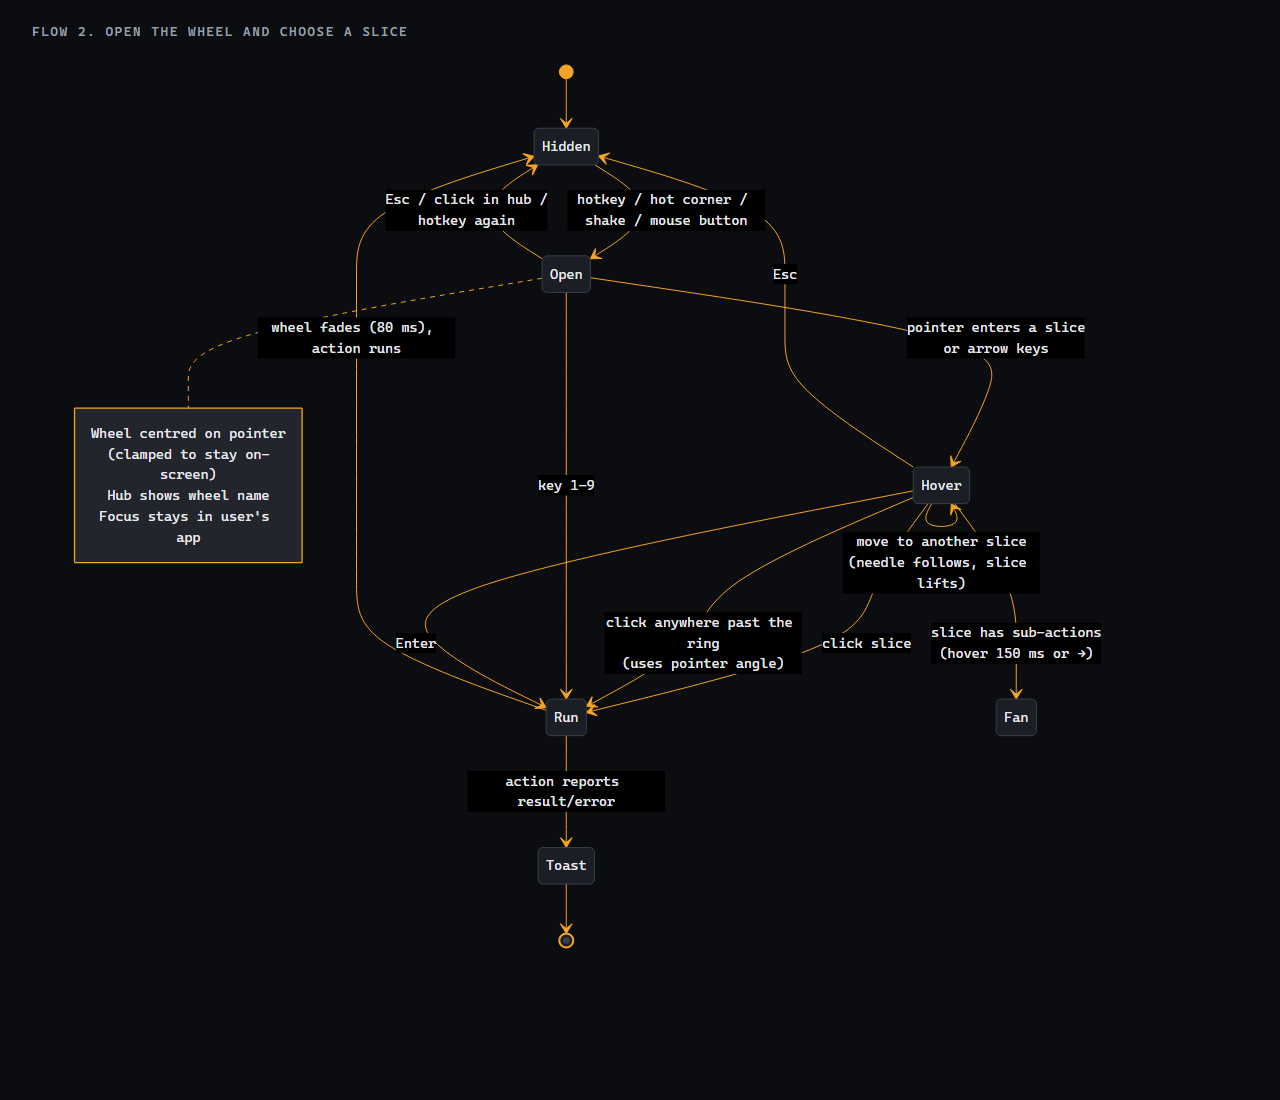
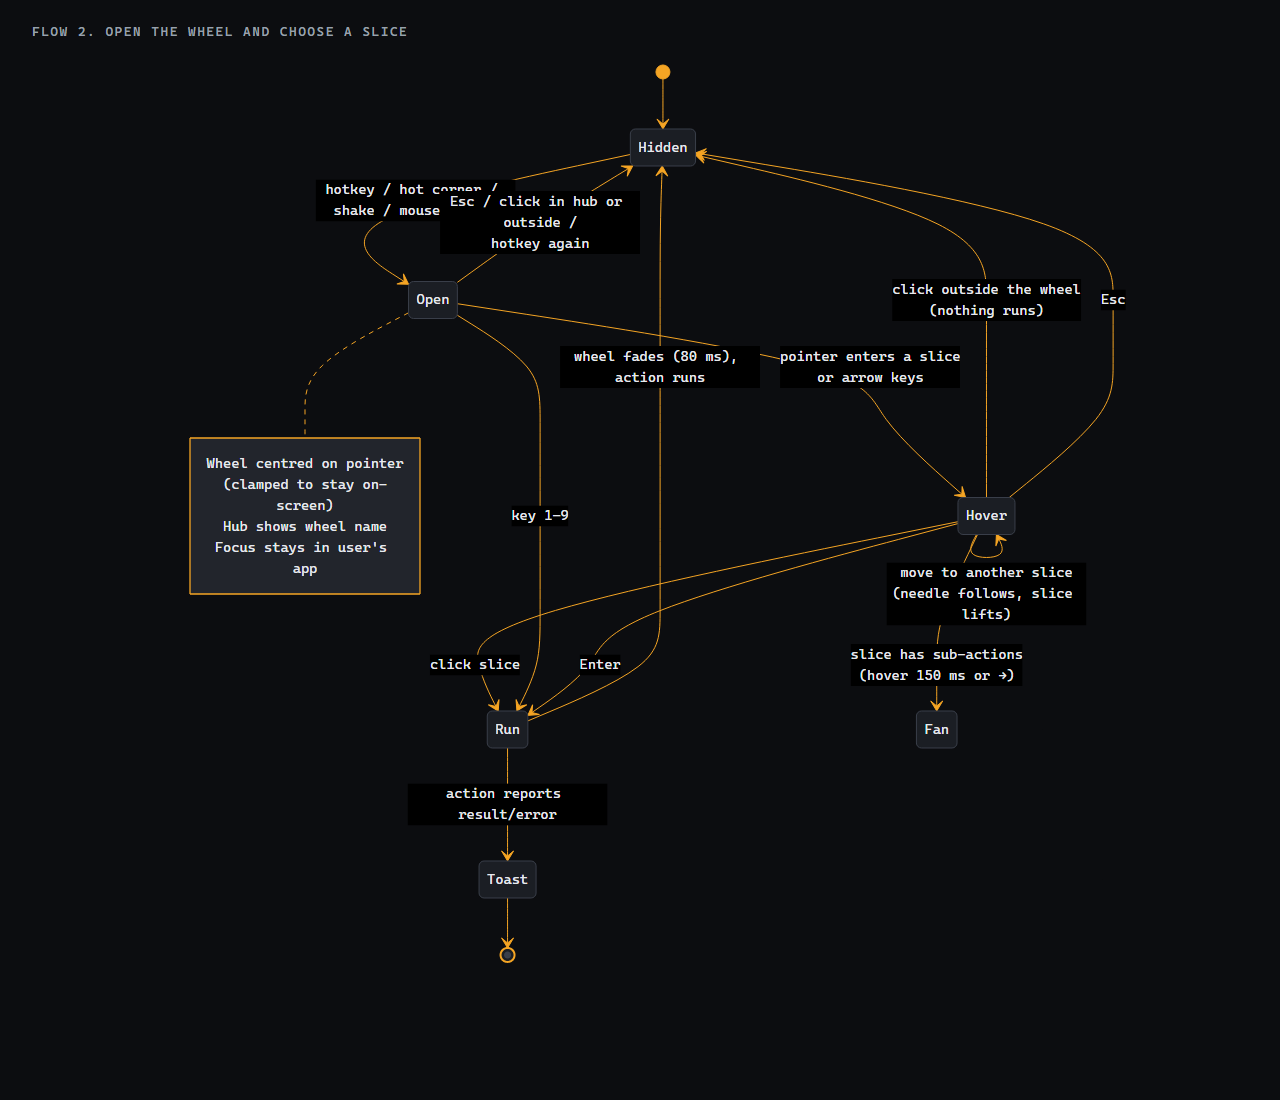
Open source under MIT
Add the MIT licence, drop the trial, paywall and licence-key plans from the
spec, flows and wireframes, and show drop mode in the README.

diff --git a/docs/wireframes/items.js b/docs/wireframes/items.js
@@ -1,10 +1,10 @@
 function DEV_ITEMS(){return [{label:"VS CODE",sub:"app"},{label:"TERMINAL",sub:"app"},{label:"REPOS",sub:"folder"},{label:"SEARCH",sub:"4 inside",fan:1},{label:"GITHUB",sub:"url"},{label:"SNIP",sub:"screenshot"},{label:"EMAIL SIG",sub:"text"},{label:"MUTE",sub:"system"}];}
 // Settings window shell. shell(active, mainHtml) → returns the .main element
 function shell(active, html, tag){
-  const navs=["Wheels","Triggers","Appearance","Sounds","Clipboard","Gallery","General","License"];
+  const navs=["Wheels","Triggers","Appearance","Sounds","Clipboard","Gallery","General"];
   document.body.insertAdjacentHTML("beforeend",`<div class="label-tag">${tag}</div>
   <div class="sw"><div class="title"><span class="logo"></span>Spoke Settings<span class="wc"><span>—</span><span>▢</span><span>✕</span></span></div>
-  <div class="body"><div class="nav">${navs.map(n=>`<a class="${n==active?'on':''}"><i></i>${n}</a>`).join("")}<div class="sp"></div><div class="trial">TRIAL · 5 DAYS LEFT</div></div>
+  <div class="body"><div class="nav">${navs.map(n=>`<a class="${n==active?'on':''}"><i></i>${n}</a>`).join("")}<div class="sp"></div></div>
   <div class="main">${html}</div></div></div>`);
   return document.querySelector(".main");
 }

diff --git a/docs/wireframes/flows-01.html b/docs/wireframes/flows-01.html
@@ -11,7 +11,7 @@ h2{font-size:13px;letter-spacing:.12em;text-transform:uppercase;color:#9aa0ab;fo
   D --&gt;|picked| E[Choose a starter wheel&lt;br/&gt;Dev · Browser · Writing · Media · Blank]
   E --&gt; F[Start with Windows? toggle&lt;br/&gt;Clipboard history? toggle, off by default]
   F --&gt; G[Done&lt;br/&gt;tray tip: 'Spoke lives here']
-  G --&gt; H[(Daemon running, trial day 1 of 7)]
+  G --&gt; H[(Daemon running)]
   D --&gt;|skip| E
 </pre>
 <script>mermaid.initialize({startOnLoad:true,theme:"base",themeVariables:{darkMode:true,background:"#0c0d10",primaryColor:"#1b1e24",primaryBorderColor:"#3a3f4a",primaryTextColor:"#e7e9ee",lineColor:"#f5a524",secondaryColor:"#16181c",tertiaryColor:"#121418",noteBkgColor:"#22252c",noteTextColor:"#e7e9ee",noteBorderColor:"#f5a524",actorBkg:"#1b1e24",actorBorder:"#f5a524",actorTextColor:"#e7e9ee",signalColor:"#e7e9ee",signalTextColor:"#e7e9ee",labelBoxBkgColor:"#1b1e24",fontFamily:"Cascadia Mono, Consolas, monospace",fontSize:"14px"},flowchart:{useMaxWidth:true},state:{useMaxWidth:true}});</script>

diff --git a/docs/wireframes/flows-02.html b/docs/wireframes/flows-02.html
@@ -15,11 +15,11 @@ h2{font-size:13px;letter-spacing:.12em;text-transform:uppercase;color:#9aa0ab;fo
   Open --&gt; Hover: pointer enters a slice&lt;br/&gt;or arrow keys
   Hover --&gt; Hover: move to another slice&lt;br/&gt;(needle follows, slice lifts)
   Hover --&gt; Run: click slice
-  Hover --&gt; Run: click anywhere past the ring&lt;br/&gt;(uses pointer angle)
+  Hover --&gt; Hidden: click outside the wheel&lt;br/&gt;(nothing runs)
   Open --&gt; Run: key 1–9
   Hover --&gt; Run: Enter
   Hover --&gt; Fan: slice has sub-actions&lt;br/&gt;(hover 150 ms or →)
-  Open --&gt; Hidden: Esc / click in hub /&lt;br/&gt;hotkey again
+  Open --&gt; Hidden: Esc / click in hub or outside /&lt;br/&gt;hotkey again
   Hover --&gt; Hidden: Esc
   Run --&gt; Hidden: wheel fades (80 ms), action runs
   Run --&gt; Toast: action reports result/error

diff --git a/docs/wireframes/flows-07.html b/docs/wireframes/flows-07.html
@@ -12,7 +12,6 @@ h2{font-size:13px;letter-spacing:.12em;text-transform:uppercase;color:#9aa0ab;fo
   S --&gt; CL[Clipboard]
   S --&gt; GA[Gallery]
   S --&gt; GE[General]
-  S --&gt; LI[License]
   W --&gt; W1[Wheel list: add · duplicate · export · import · delete]
   W --&gt; W2[Live preview: drag slices to reorder,&lt;br/&gt;drop apps/files/URLs onto it]
   W --&gt; W3[Slice inspector: type · target · label · icon · colour · sub-actions · run-all]

diff --git a/README.md b/README.md
@@ -2,7 +2,7 @@
 
 A radial command wheel for Windows. Press a shortcut, and a wheel of your apps, sites, folders, snippets and tools opens around the pointer. Point, click, done.
 
-Native and tiny: C# / .NET 10 Native AOT, Direct2D + DirectComposition overlay, under 30 ms to open, under 40 MB idle.
+Native and tiny: C# / .NET 10 Native AOT, Direct2D + DirectComposition overlay, under 30 ms to open, under 40 MB idle. Free and open source ([MIT](LICENSE)).
 
 ![Spoke in its four themes: Aurora, Ember, Paper and Graphite](docs/themes.png)
 
@@ -22,7 +22,10 @@ Open the wheel with **Ctrl+Alt+Z**. Choose a slice on the ring or press 1–8; a
 
 **M3** adds **many wheels**: give each its own shortcut (Settings → Wheels), and press **Tab** / Shift+Tab or click a pill under the wheel to switch in place. **Group** slices hold up to 12 items that fan out around the slice, or with *Run every item* switched on (`"runAll": true`, `"delay": 500`) run them in order. Wheels export to and import from `.spoke` files (Settings → Wheels → ⋯, or `Start-Process -Wait Spoke.exe "--export Dev dev.spoke"` / `--import dev.spoke`); paths under your user folders become `%ENV%` forms. Icons keep the theme's colours; a Windows or custom accent only colours the highlight.
 
+<img src="docs/drop-mode.png" width="360" align="right" alt="The drop mode wheel with an estimated output size on every format" />
+
 **Drop mode** converts files by dragging them. Drag images from File Explorer, keep holding the mouse button, press the wheel shortcut, and the wheel opens under the pointer as a format wheel: PNG, JPEG, WebP, AVIF, HEIC, GIF, TIFF, BMP, Resize ▸ and Compress. Each slice shows the **estimated size** before you drop. A worker process encodes full-resolution tiles sampled from across the picture and scales the result up; across test photos and screenshots the average error is 5%. Drop on a slice to convert beside the original (never overwriting); hover Resize for a moment, or drop on it, to pick a size. Several files convert as a batch. Other files (PDFs, Office documents) get the Files actions instead. WebP and AVIF use `ffmpeg` on PATH. HEIC needs Microsoft's HEIF and HEVC extensions; without them the slice says so. Esc closes the wheel and the drag carries on. `Spoke.exe --estimate-check report.txt image…` compares estimates with real conversions, and `--render out.png --drop image` draws the format wheel.
+<br clear="right" />
 
 **More options as an outer ring:** Files, Text tools, Generate and System open their options as a band that fans out around the slice, so the wheel stays in view (hub shows the path, e.g. *Files ▸ Convert*; Esc or the hub goes back, the slice again folds it, arrows/digits/Enter work too). Prefer the old way? Settings → Appearance → *More options*, or `"subMenus": "wheel"`. `Spoke.exe --render out.png [--theme Onyx] [--ring 3]` draws the wheel to a PNG without showing anything.
 
@@ -62,3 +65,7 @@ dotnet publish src/Spoke.Daemon -c Release -r win-x64 -o publish/m2
 dotnet publish src/Spoke.Settings -c Release -o publish/m2   # SpokeSettings.exe must sit next to Spoke.exe
 publish/m2/Spoke.exe --bench 100 --label my-run   # latency/focus report in %LOCALAPPDATA%\Spoke
 ```
+
+## License
+
+Spoke is free and open source under the [MIT licence](LICENSE). Third-party code and its licences are listed in [THIRD_PARTY_NOTICES.md](THIRD_PARTY_NOTICES.md). Issues and pull requests are welcome.

diff --git a/docs/SPEC.md b/docs/SPEC.md
@@ -108,7 +108,7 @@ Each feature has **done criteria**. A feature is done only when every criterion 
 | Onboarding | First run: pick a hotkey (with a conflict check), try the wheel on a practice screen, choose a starter wheel, set autostart. Takes under 90 seconds. |
 | Appearance | Size (S/M/L/custom), slice count, accent, opacity, blur behind (on/off), animation (none/subtle/springy), icon style (app icons or mono glyphs), hub style. |
 | Sounds | Themes: Off (default), Soft Click, Mechanical, Glass. Volume control. Sounds on open, hover, select and error. Short WAVs held in memory. |
-| Licensing | 7-day full trial, then a lifetime licence or a weekly plan. Store build uses Store add-ons; direct build uses signed offline licence keys. After the trial, triggers pause and the wheel shows *Buy* / *Enter key*. Settings stay. |
+| Licence | Free and open source under the MIT licence. No trial, account or licence key. |
 | Packaging | Signed MSIX for the Store and winget, plus a signed zip/MSI for direct download. Auto-update: the Store handles it for the Store build; the direct build checks once a day *only if the user allows it*. |
 | Accessibility | High-contrast theme respected, Narrator announces the hovered slice, reduced-motion respected, everything reachable by keyboard. |
 | Crash safety | Unhandled errors write a local log. A watchdog restarts the daemon once. Nothing is sent anywhere. |
@@ -122,6 +122,4 @@ Each feature has **done criteria**. A feature is done only when every criterion 
 - Windows 10 support (decide after the spike. The code paths exist on 10 but aren't tested.)
 
 ## 6. Open decisions for later phases
-1. **Payments for the direct build:** Paddle, Lemon Squeezy or Store-only. (Phase 5.)
-2. **Weekly plan pricing** next to the lifetime price. (Phase 5.)
-3. **Default hotkey:** Ctrl+Alt+Space for now. Onboarding asks anyway.
+1. **Default hotkey:** Ctrl+Alt+Space for now. Onboarding asks anyway.

diff --git a/docs/UI_FLOW.md b/docs/UI_FLOW.md
@@ -13,7 +13,7 @@ flowchart TD
   D -->|picked| E[Choose a starter wheel<br/>Dev · Browser · Writing · Media · Blank]
   E --> F[Start with Windows? toggle<br/>Clipboard history? toggle, off by default]
   F --> G[Done<br/>tray tip: 'Spoke lives here']
-  G --> H[(Daemon running, trial day 1 of 7)]
+  G --> H[(Daemon running)]
   D -->|skip| E
 ```
 
@@ -117,7 +117,6 @@ flowchart LR
   S --> CL[Clipboard]
   S --> GA[Gallery]
   S --> GE[General]
-  S --> LI[License]
   W --> W1[Wheel list: add · duplicate · export · import · delete]
   W --> W2[Live preview: drag slices to reorder,<br/>drop apps/files/URLs onto it]
   W --> W3[Slice inspector: type · target · label · icon · colour · sub-actions · run-all]
@@ -130,26 +129,3 @@ flowchart LR
   W2 -. saves .-> CFG[(settings.json)] -. pipe 'reload' .-> D[Daemon applies < 200 ms]
 ```
 
-## 8. Trial and purchase
-
-```mermaid
-stateDiagram-v2
-  [*] --> Trial: first run (7 days, full features)
-  Trial --> Trial: day 5 & 6: one gentle tray notice
-  Trial --> Expired: day 8
-  Trial --> Licensed: buy any time
-  Expired --> Paywall: any trigger
-  note right of Paywall
-    Wheel opens, slices greyed
-    Hub: "Trial ended"
-    Two slices: Buy · Enter key
-    Settings and wheels kept
-  end note
-  Paywall --> Store: Buy (Store build → Store add-on dialog)
-  Paywall --> Checkout: Buy (direct build → browser checkout)
-  Checkout --> KeyEntry: email delivers key
-  Paywall --> KeyEntry: Enter key
-  Store --> Licensed
-  KeyEntry --> Licensed: offline signature check (Ed25519)
-  Licensed --> [*]
-```

diff --git a/docs/BUILD_PLAN.md b/docs/BUILD_PLAN.md
@@ -24,7 +24,7 @@ Estimates assume one developer working with Claude, full days. Each milestone en
 | M10 | Video | ffmpeg LGPL bundle, probe, MP4/WebM/MOV/MKV/GIF, mute, replace/add audio, extract MP3/AAC/WAV, progress + cancel. Explorer *Convert with Spoke…* | 5 days | Cancel leaves no partial files. The LGPL notice and an ffmpeg build-config check are in CI. |
 | **— Phase 4 done (≈ 2 weeks) —** ||||
 | M11 | Polish | Onboarding (4 steps), Appearance, Sounds, accessibility (Narrator, high contrast, reduced motion), crash log + watchdog. | 5 days | First-run test with someone new to the app, finished in < 90 s. |
-| M12 | Ship | Licensing (Store add-ons + offline Ed25519 keys), MSIX + signing, winget manifest, Store listing assets, portable zip. | 5 days | Clean install/uninstall on a fresh Windows 11 VM. Trial expiry tested by changing the clock. |
+| M12 | Ship | MSIX + signing, winget manifest, Store listing assets, portable zip. | 5 days | Clean install/uninstall on a fresh Windows 11 VM. |
 | **— Phase 5 done (≈ 2 weeks) —** ||||
 
 **Total ≈ 11–12 weeks** to a store-ready v1. Phase 1 (usable daily driver) lands in about 2.5 weeks.

diff --git a/docs/ARCHITECTURE.md b/docs/ARCHITECTURE.md
@@ -16,7 +16,7 @@
 | Clipboard store | **SQLite** (Microsoft.Data.Sqlite + e_sqlite3, AOT-ok) in `%LOCALAPPDATA%\Spoke\clips.db`. Each row is encrypted with **AES-GCM**, and the 256-bit key is wrapped with **DPAPI (CurrentUser)** | Per-row AES is fast. DPAPI ties the key to the Windows account, so copying the DB to another machine or user gives you garbage. |
 | Images | **WIC**, plus bundled libwebp for WebP if the system has no WIC WebP encoder. HEIC is only offered if the HEIF Image Extensions codec is present. | Built into Windows, fast, no extra licensing. |
 | Video | **Bundled ffmpeg (LGPL build, shared libs, no GPL/non-free codecs)**, run as a child process by the worker | Proven, and keeps licensing simple. Encoders are H.264 via Media Foundation (`h264_mf`) and VP9/AV1 via libvpx/libaom (LGPL-compatible). No x264 (GPL). |
-| Packaging | **MSIX** (Store + winget), code-signed. Also a signed portable zip. | Clean install/uninstall, Store trial/add-ons, auto-update. |
+| Packaging | **MSIX** (Store + winget), code-signed. Also a signed portable zip. | Clean install/uninstall, auto-update. |
 
 ## 2. Processes
 
